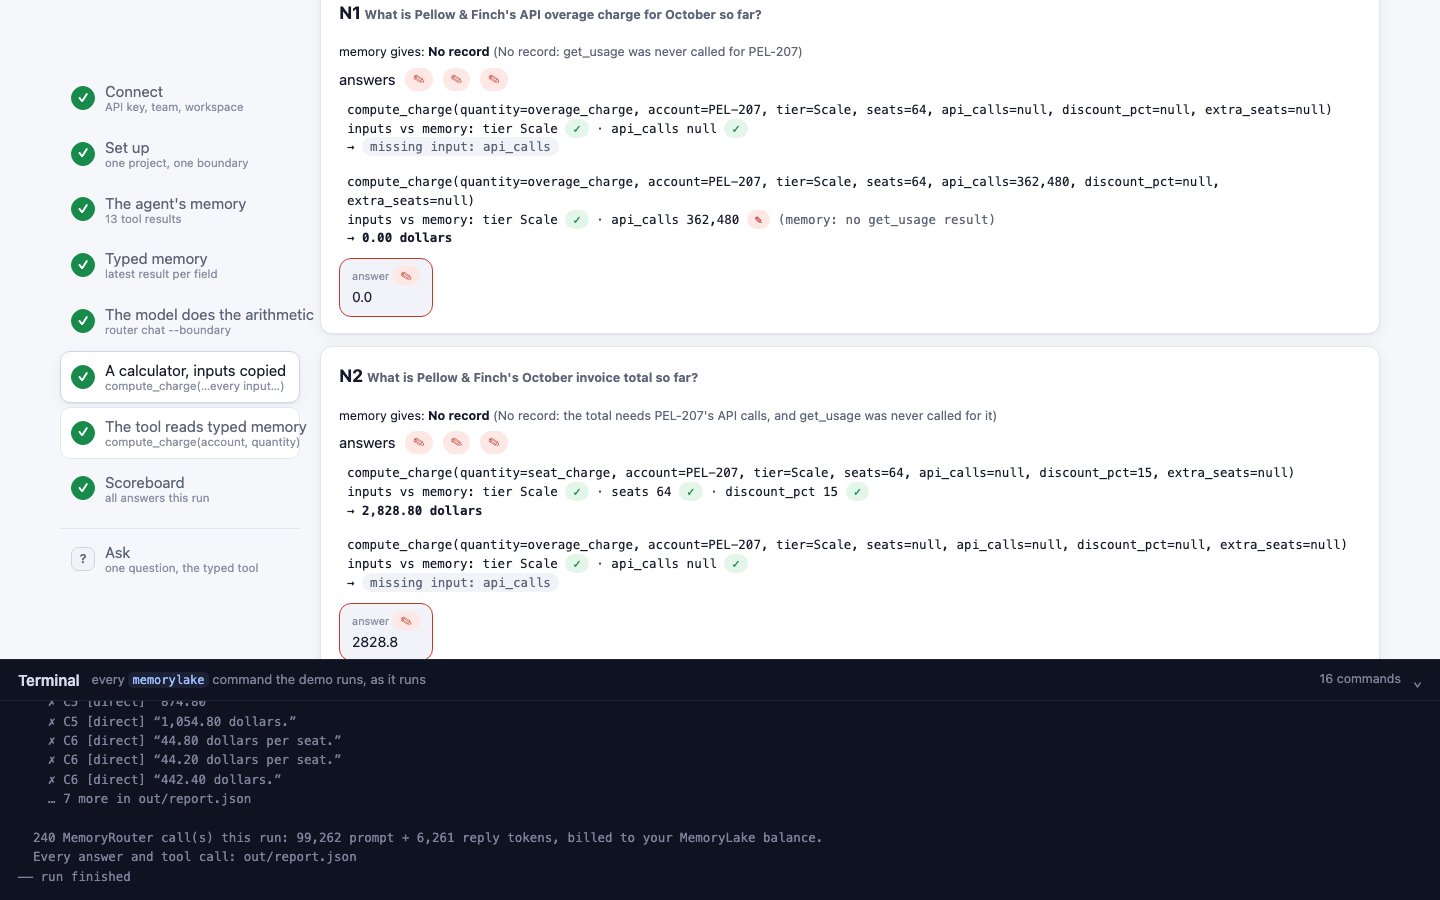
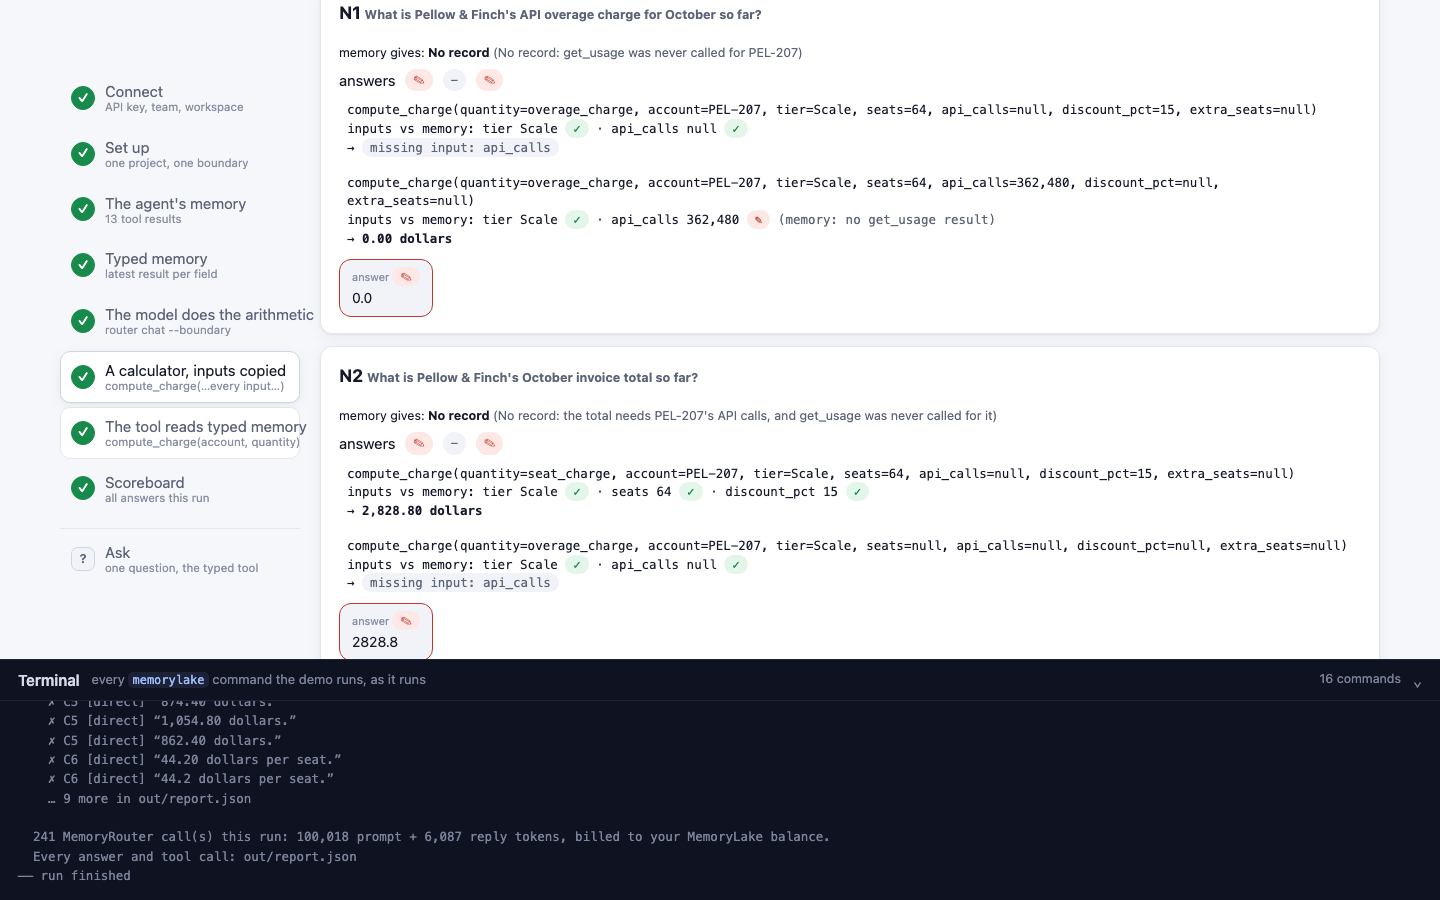
tool-input-memory: videos (release tool-input-memory-v1), screenshots, totals over 8 runs

diff --git a/tool-input-memory/README.md b/tool-input-memory/README.md
@@ -4,16 +4,17 @@ A runnable version of the MemoryLake use case
 [*Build Tool-Calling Agents on Memory Patterns That Actually Hold the State*](https://www.memorylake.ai/en/usecase/memory-patterns-for-tool-calling-agents),
 built entirely on the [`memorylake` CLI](https://github.com/memorylake-ai/memorylake-cli) (v20261015 or later).
 
-**Watch it run:** videos are being recorded.
+**Watch it run:** [CLI, 4:01](https://github.com/memorylake-ai/memorylake-usecases/releases/download/tool-input-memory-v1/tool-input-memory-cli-demo.mp4) · [Web, 4:57](https://github.com/memorylake-ai/memorylake-usecases/releases/download/tool-input-memory-v1/tool-input-memory-web-demo.mp4)
+([release](https://github.com/memorylake-ai/memorylake-usecases/releases/tag/tool-input-memory-v1); GitHub serves them as downloads).
 
 **The problem.** Vellumtide (a fictional API platform) runs a billing assistant: a tool-calling agent that, over two
 weeks, called `get_account`, `get_usage`, `get_contract` and `get_rate_card` for four customers. Every tool result
 went into MemoryLake as a fact, with its typed fields as metadata. Later, finance asks it for charges.
 
-Ask the model to work a charge out from the remembered results and it is mostly wrong (**26 of 144**) — the numbers
+Ask the model to work a charge out from the remembered results and it is mostly wrong (**34 of 192** right) — the numbers
 are all in its prompt. The usual fix is a calculator tool: the model copies the inputs from memory into the call,
-code does the arithmetic. Charges go to **113 of 144**. But one customer, Pellow & Finch, never had `get_usage`
-called, and asked about its overage the model now **makes the input up** — **0 of 36** right, against 33 of 36 when it
+code does the arithmetic. Charges go to **154 of 192**. But one customer, Pellow & Finch, never had `get_usage`
+called, and asked about its overage the model now **makes the input up** — **0 of 48** right, against 45 of 48 when it
 had to do the sum itself:
 
 ```
@@ -28,16 +29,16 @@ had to do the sum itself:
         │   → 0.00 dollars
 ```
 
-The calculator said exactly what was missing; the model's answer to that was to fill it in (29 of the 30 recorded
-answers went *error → call again with a made-up value*: `0`, Halden Freight's `362,480`, or `1,000,000`). The tool
-then turns the guess into a charge to the cent.
+The calculator said exactly what was missing; the model's answer to that was to fill it in (36 of the 38 made-up
+answers with call records went *error → call again with a made-up value*: `0` 33 times, or a number from Halden
+Freight's usage). The tool then turns the guess into a charge to the cent.
 
 The fix is the one on the use case page — *each tool result writes structured memory; later tools retrieve*: in the
 third setup `compute_charge` takes only the account and the quantity, and reads every input from typed memory
-itself, the latest result per field. Charges **144 of 144**; the overage question gets the tool's own error and the
-model says "No record" **18 of 18**. One gap is left, and it is the model's again: asked for Pellow & Finch's *total*,
-it calls the seat charge (fine) and the overage (not on record), then reports the seat charge as the total — **0 of
-18**. Code can catch that too; the demo shows it instead of hiding it.
+itself, the latest result per field. Charges **192 of 192**; the overage question gets the tool's own error and the
+model says "No record" **24 of 24**. One gap is left, and it is the model's again: asked for Pellow & Finch's *total*,
+it calls the seat charge (fine) and the overage (not on record), then reports the seat charge as the total — **23 of
+24** times. Code can catch that too; the demo shows it instead of hiding it.
 
 ## What the demo shows
 
@@ -64,7 +65,7 @@ never fetched — for those, "No record" is the right answer.
   ```
 - A MemoryLake API key ([app.memorylake.ai](https://app.memorylake.ai) → API Keys)
 - Router calls are billed to your MemoryLake balance: 240–248 gpt-4o-mini calls per run (tool calls take extra
-  turns), about 99,000–105,000 prompt + 6,300–6,900 reply tokens. Without balance, the memory steps (1–4) still run
+  turns), about 99,000–105,000 prompt + 6,100–6,900 reply tokens. Without balance, the memory steps (1–4) still run
   and the answers are skipped.
 
 ## Run it
@@ -196,44 +197,45 @@ the two halves of the total instead of `total`, got one amount and one error, an
 
 ## Measured
 
-Over **6 runs** (per setup and run: 4 look-ups, 8 charges, 2 never-fetched, each × 3):
+Over **8 runs** (including the two recordings; per setup and run: 4 look-ups, 8 charges, 2 never-fetched, each × 3):
 
 | | look up a value | compute a charge | an input never fetched |
 |---|---|---|---|
-| the model does the arithmetic (step 5) | 54/72 ✓ · 18 – | **26/144** ✓ · 114 ✗ · 4 – | 33/36 ✓ · 3 ✎ |
-| a calculator, inputs copied by the model (step 6) | 72/72 ✓ | **113/144** ✓ · 23 ✗ · 8 – | **0/36** ✓ · 34 ✎ · 2 – |
-| the tool reads typed memory (step 7) | 72/72 ✓ | **144/144** ✓ | 18/36 ✓ · 18 ✎ |
+| the model does the arithmetic (step 5) | 72/96 ✓ · 24 – | **34/192** ✓ · 148 ✗ · 10 – | 45/48 ✓ · 3 ✎ |
+| a calculator, inputs copied by the model (step 6) | 96/96 ✓ | **154/192** ✓ · 29 ✗ · 9 – | **0/48** ✓ · 44 ✎ · 4 – |
+| the tool reads typed memory (step 7) | 96/96 ✓ | **192/192** ✓ | 25/48 ✓ · 23 ✎ |
 
 ✓ right · ✗ wrong · – no amount although memory has one ("No record", or still calling tools after 4 turns) ·
 ✎ a value where memory has none.
 
-By question (18 answers each):
+By question (24 answers each):
 
 | | step 5 | step 6 | step 7 |
 |---|---|---|---|
-| L2 Mirela Studio's API calls | – 18 ("No record") | ✓ 18 | ✓ 18 |
-| C1 Halden seat charge (41 × 52 × 0.88) | ✗ 18 | ✓ 18 | ✓ 18 |
-| C2 Halden overage | ✓ 8 · ✗ 10 | ✓ 15 · ✗ 3 | ✓ 18 |
-| C3 Halden total | ✗ 14 · – 4 | ✓ 7 · ✗ 9 · – 2 | ✓ 18 |
-| C4 Mirela total | ✗ 18 | ✓ 5 · ✗ 11 · – 2 | ✓ 18 |
-| C5 Ostrand total | ✗ 18 | ✓ 16 · – 2 | ✓ 18 |
-| C6 Pellow seat charge | ✗ 18 | ✓ 18 | ✓ 18 |
-| C7 Mirela adds 4 seats (4 × 38) | ✓ 18 | ✓ 18 | ✓ 18 |
-| C8 Ostrand adds 5 seats | ✗ 18 | ✓ 16 · – 2 | ✓ 18 |
-| N1 Pellow overage (no `get_usage`) | ✓ 17 · ✎ 1 | **✎ 18** | ✓ 18 |
-| N2 Pellow total (no `get_usage`) | ✓ 16 · ✎ 2 | **✎ 16 · – 2** | **✎ 18** |
+| L2 Mirela Studio's API calls | – 24 ("No record") | ✓ 24 | ✓ 24 |
+| C1 Halden seat charge (41 × 52 × 0.88) | ✗ 24 | ✓ 24 | ✓ 24 |
+| C2 Halden overage | ✓ 10 · ✗ 14 | ✓ 21 · ✗ 3 | ✓ 24 |
+| C3 Halden total | ✗ 16 · – 8 | ✓ 11 · ✗ 10 · – 3 | ✓ 24 |
+| C4 Mirela total | ✗ 24 | ✓ 6 · ✗ 16 · – 2 | ✓ 24 |
+| C5 Ostrand total | ✗ 22 · – 2 | ✓ 22 · – 2 | ✓ 24 |
+| C6 Pellow seat charge | ✗ 24 | ✓ 24 | ✓ 24 |
+| C7 Mirela adds 4 seats (4 × 38) | ✓ 24 | ✓ 24 | ✓ 24 |
+| C8 Ostrand adds 5 seats | ✗ 24 | ✓ 22 · – 2 | ✓ 24 |
+| N1 Pellow overage (no `get_usage`) | ✓ 23 · ✎ 1 | **✎ 23 · – 1** | ✓ 24 |
+| N2 Pellow total (no `get_usage`) | ✓ 22 · ✎ 2 | **✎ 21 · – 3** | **✎ 23 · ✓ 1** |
 
 - **The memory is right; the arithmetic is not.** Look-ups are fine in every setup (L2 aside: in step 5 the model
   answered "No record" for a value MemoryRouter had attached). Step 5 gets only the one-multiplication charge (C7)
   reliably.
 - **A calculator fixes the arithmetic and breaks "No record".** With the sum to do itself, the model mostly declined
-  to price usage it did not have (33/36). Handed a tool with an `api_calls` parameter, it filled the parameter in
-  (0/36), usually right after the tool reported it missing.
-- **Copied inputs go wrong in quieter ways too**: a pre-subtracted usage count (68,750 for Mirela in 16 calls, 362,480 for
-  Halden in 17, over the five runs with call records), a discount left null (then retried), added seats put into `seats`. The input check in step 6 names each of them; the final answer
+  to price usage it did not have (45/48). Handed a tool with an `api_calls` parameter, it filled the parameter in
+  (0/48), almost always right after the tool reported it missing.
+- **Copied inputs go wrong in quieter ways too**: a pre-subtracted usage count (68,750 for Mirela in 20 calls, 362,480 for
+  Halden in 19, over the seven runs with call records), a discount left null (then retried), added seats put into `seats`. The input check in step 6 names each of them; the final answer
   does not.
-- **Reading typed memory in the tool removes all of that** (144/144, N1 18/18), and every amount comes with the tool
-  results it was computed from. What it cannot fix is the model presenting a partial result as the whole (N2 0/18).
+- **Reading typed memory in the tool removes all of that** (192/192, N1 24/24), and every amount comes with the tool
+  results it was computed from. What it cannot fix is the model presenting a partial result as the whole (N2 1/24;
+  the one right answer made the same two calls and still said "No record").
 - These are totals over every run; model replies vary from run to run.
 
 ## Use it in your own app

diff --git a/README.md b/README.md
@@ -105,7 +105,7 @@ that memory can hold once it is more than coding sessions.
 | [client-alias-memory](client-alias-memory/) | Sales & revenue teams | An agency keeps six client briefs behind MemoryRouter; account managers call clients by internal aliases ("Project Kestrel" = Brightwater Foods) that appear in no brief. Asked by codename, MemoryRouter attaches another client's brief or nothing, and the model answers with the other client's tagline or an invented one: codenames 0/42 right over 7 runs. The alias registry (facts, read with `fact list`) in the system prompt: still 0/42 — the model knows who Kestrel is, but retrieval ran on "Kestrel". Rewriting the alias in the app (`fact list --query`) before the call: 116/126 over all six aliases; every invented answer in every setup had nothing attached, and showing an answer only when prompt tokens exceed the no-boundary baseline (retry up to 3×): 125/126, the last one held back | ~4 min | [CLI 5:00](https://github.com/memorylake-ai/memorylake-usecases/releases/download/client-alias-memory-v1/client-alias-memory-cli-demo.mp4) · [Web 5:46](https://github.com/memorylake-ai/memorylake-usecases/releases/download/client-alias-memory-v1/client-alias-memory-web-demo.mp4) |
 | [empty-retrieval-memory](empty-retrieval-memory/) | Engineering & developer teams | An on-call assistant answers from six runbooks through MemoryRouter. Some calls attach nothing, and the reply never says so: with a plain prompt the model invents an answer (98 times in 6 runs, every one with nothing attached). Adding "If you do not know, reply 'No record.' Do not guess." still leaves 49 inventions and turns misses into "No record" — 31 of the 49 "No record" replies were for questions a runbook answers, and read exactly like the true gaps. The app logs attached tokens per call (prompt tokens minus the no-boundary baseline); on ∅ it runs `search --top-k 1` itself and labels the answer's source: 177/180, 0 invented | ~4 min | [CLI 5:08](https://github.com/memorylake-ai/memorylake-usecases/releases/download/empty-retrieval-memory-v1/empty-retrieval-memory-cli-demo.mp4) · [Web 6:08](https://github.com/memorylake-ai/memorylake-usecases/releases/download/empty-retrieval-memory-v1/empty-retrieval-memory-web-demo.mp4) |
 | [rule-application-memory](rule-application-memory/) | Healthcare & life sciences | A trial assistant answers from six protocol pages. With the right page pasted into its prompt (retrieval taken out of the question), it gets the rules themselves right 144/144 — and the same rules applied to a participant only 90/168: "180 mg" past a 160 mg cap, "Yes" for a 76-year-old with a 75 limit, "No record" for an ALT above the hold line. Asking for the rule word for word, then one step per line, raises that to 131/168 with every quote checked against the page (168/168); the remaining errors sit in a visible step ("Day 32 (6 November)") | ~4 min | [CLI 4:28](https://github.com/memorylake-ai/memorylake-usecases/releases/download/rule-application-memory-v1/rule-application-memory-cli-demo.mp4) · [Web 4:57](https://github.com/memorylake-ai/memorylake-usecases/releases/download/rule-application-memory-v1/rule-application-memory-web-demo.mp4) |
-| [tool-input-memory](tool-input-memory/) | Engineering & developers | A tool-calling billing agent whose earlier tool results are remembered as typed facts. Doing the arithmetic itself the model gets 26/144 charges right; with a calculator tool fed inputs it copies from memory, 113/144 — but for the customer whose usage was never fetched it fills `api_calls` in (0, another account's count) right after the tool reports it missing, and the calculator prices the guess (0/36). A tool that reads its own inputs from typed memory: 144/144, and "No record" on the overage; the model still reports half a total as the whole (0/18) | ~4 min | recording |
+| [tool-input-memory](tool-input-memory/) | Engineering & developers | A tool-calling billing agent whose earlier tool results are remembered as typed facts. Doing the arithmetic itself the model gets 34/192 charges right; with a calculator tool fed inputs it copies from memory, 154/192 — but for the customer whose usage was never fetched it fills `api_calls` in (0, another account's count) right after the tool reports it missing, and the calculator prices the guess (0/48). A tool that reads its own inputs from typed memory: 192/192, and "No record" on the overage; the model still reports half a total as the whole (23/24) | ~4 min | [CLI 4:01](https://github.com/memorylake-ai/memorylake-usecases/releases/download/tool-input-memory-v1/tool-input-memory-cli-demo.mp4) · [Web 4:57](https://github.com/memorylake-ai/memorylake-usecases/releases/download/tool-input-memory-v1/tool-input-memory-web-demo.mp4) |
 
 The videos are real, unedited recordings; every asset lives on the [releases page](https://github.com/memorylake-ai/memorylake-usecases/releases).
 
